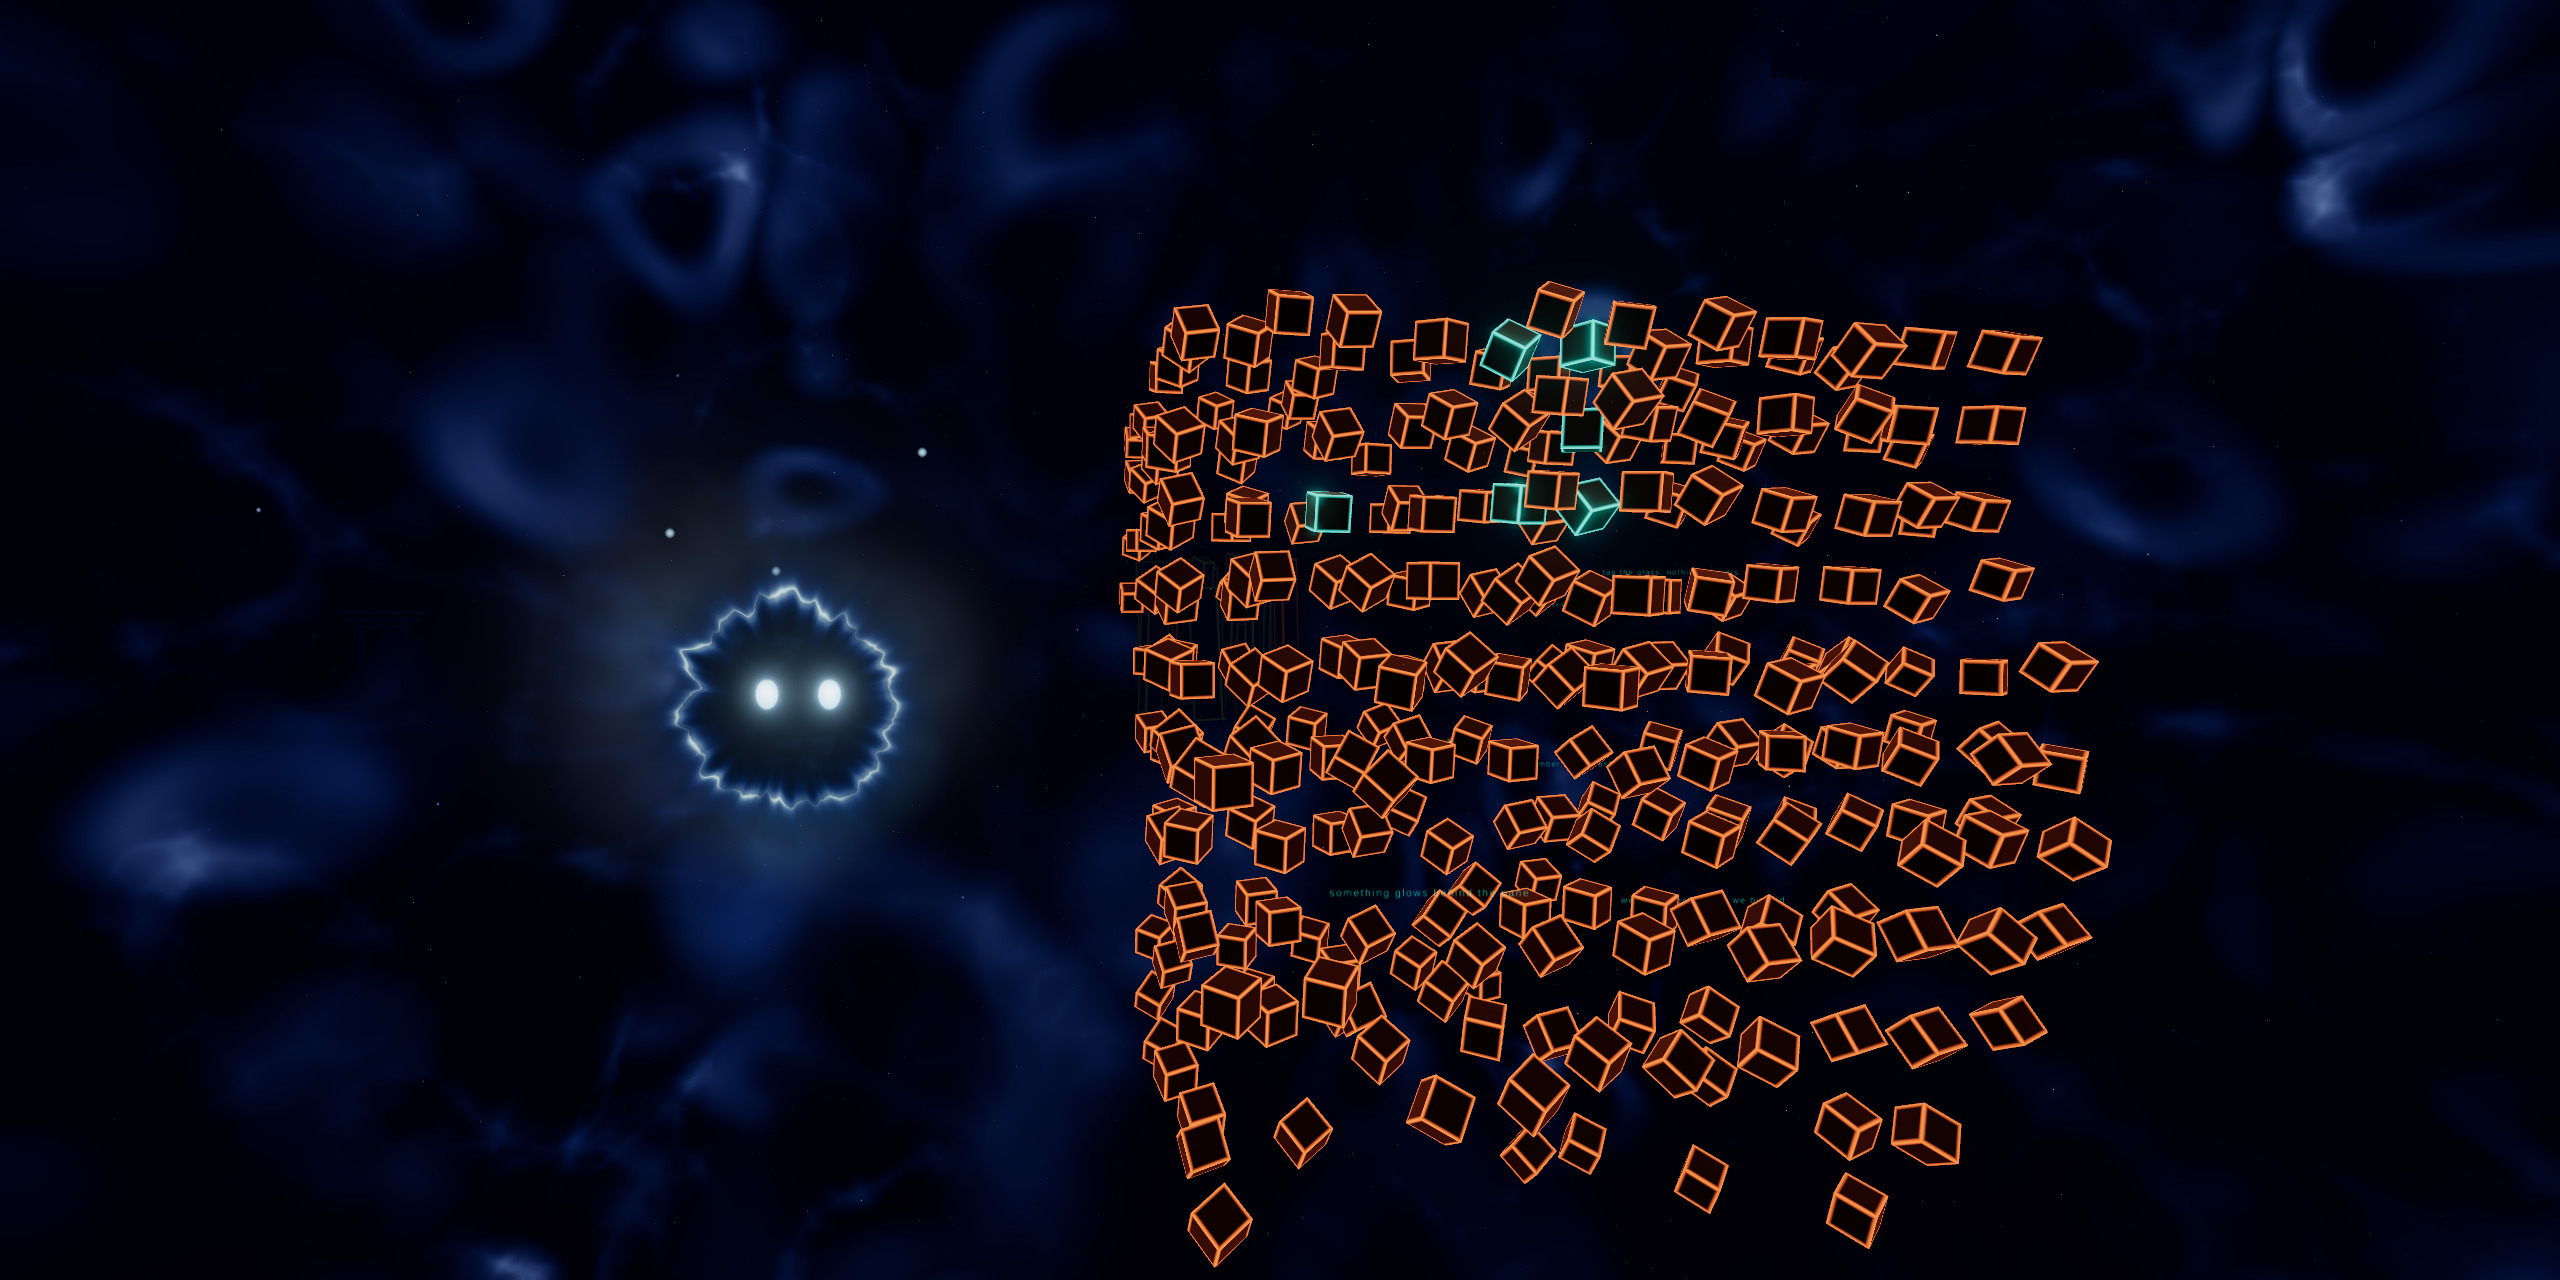
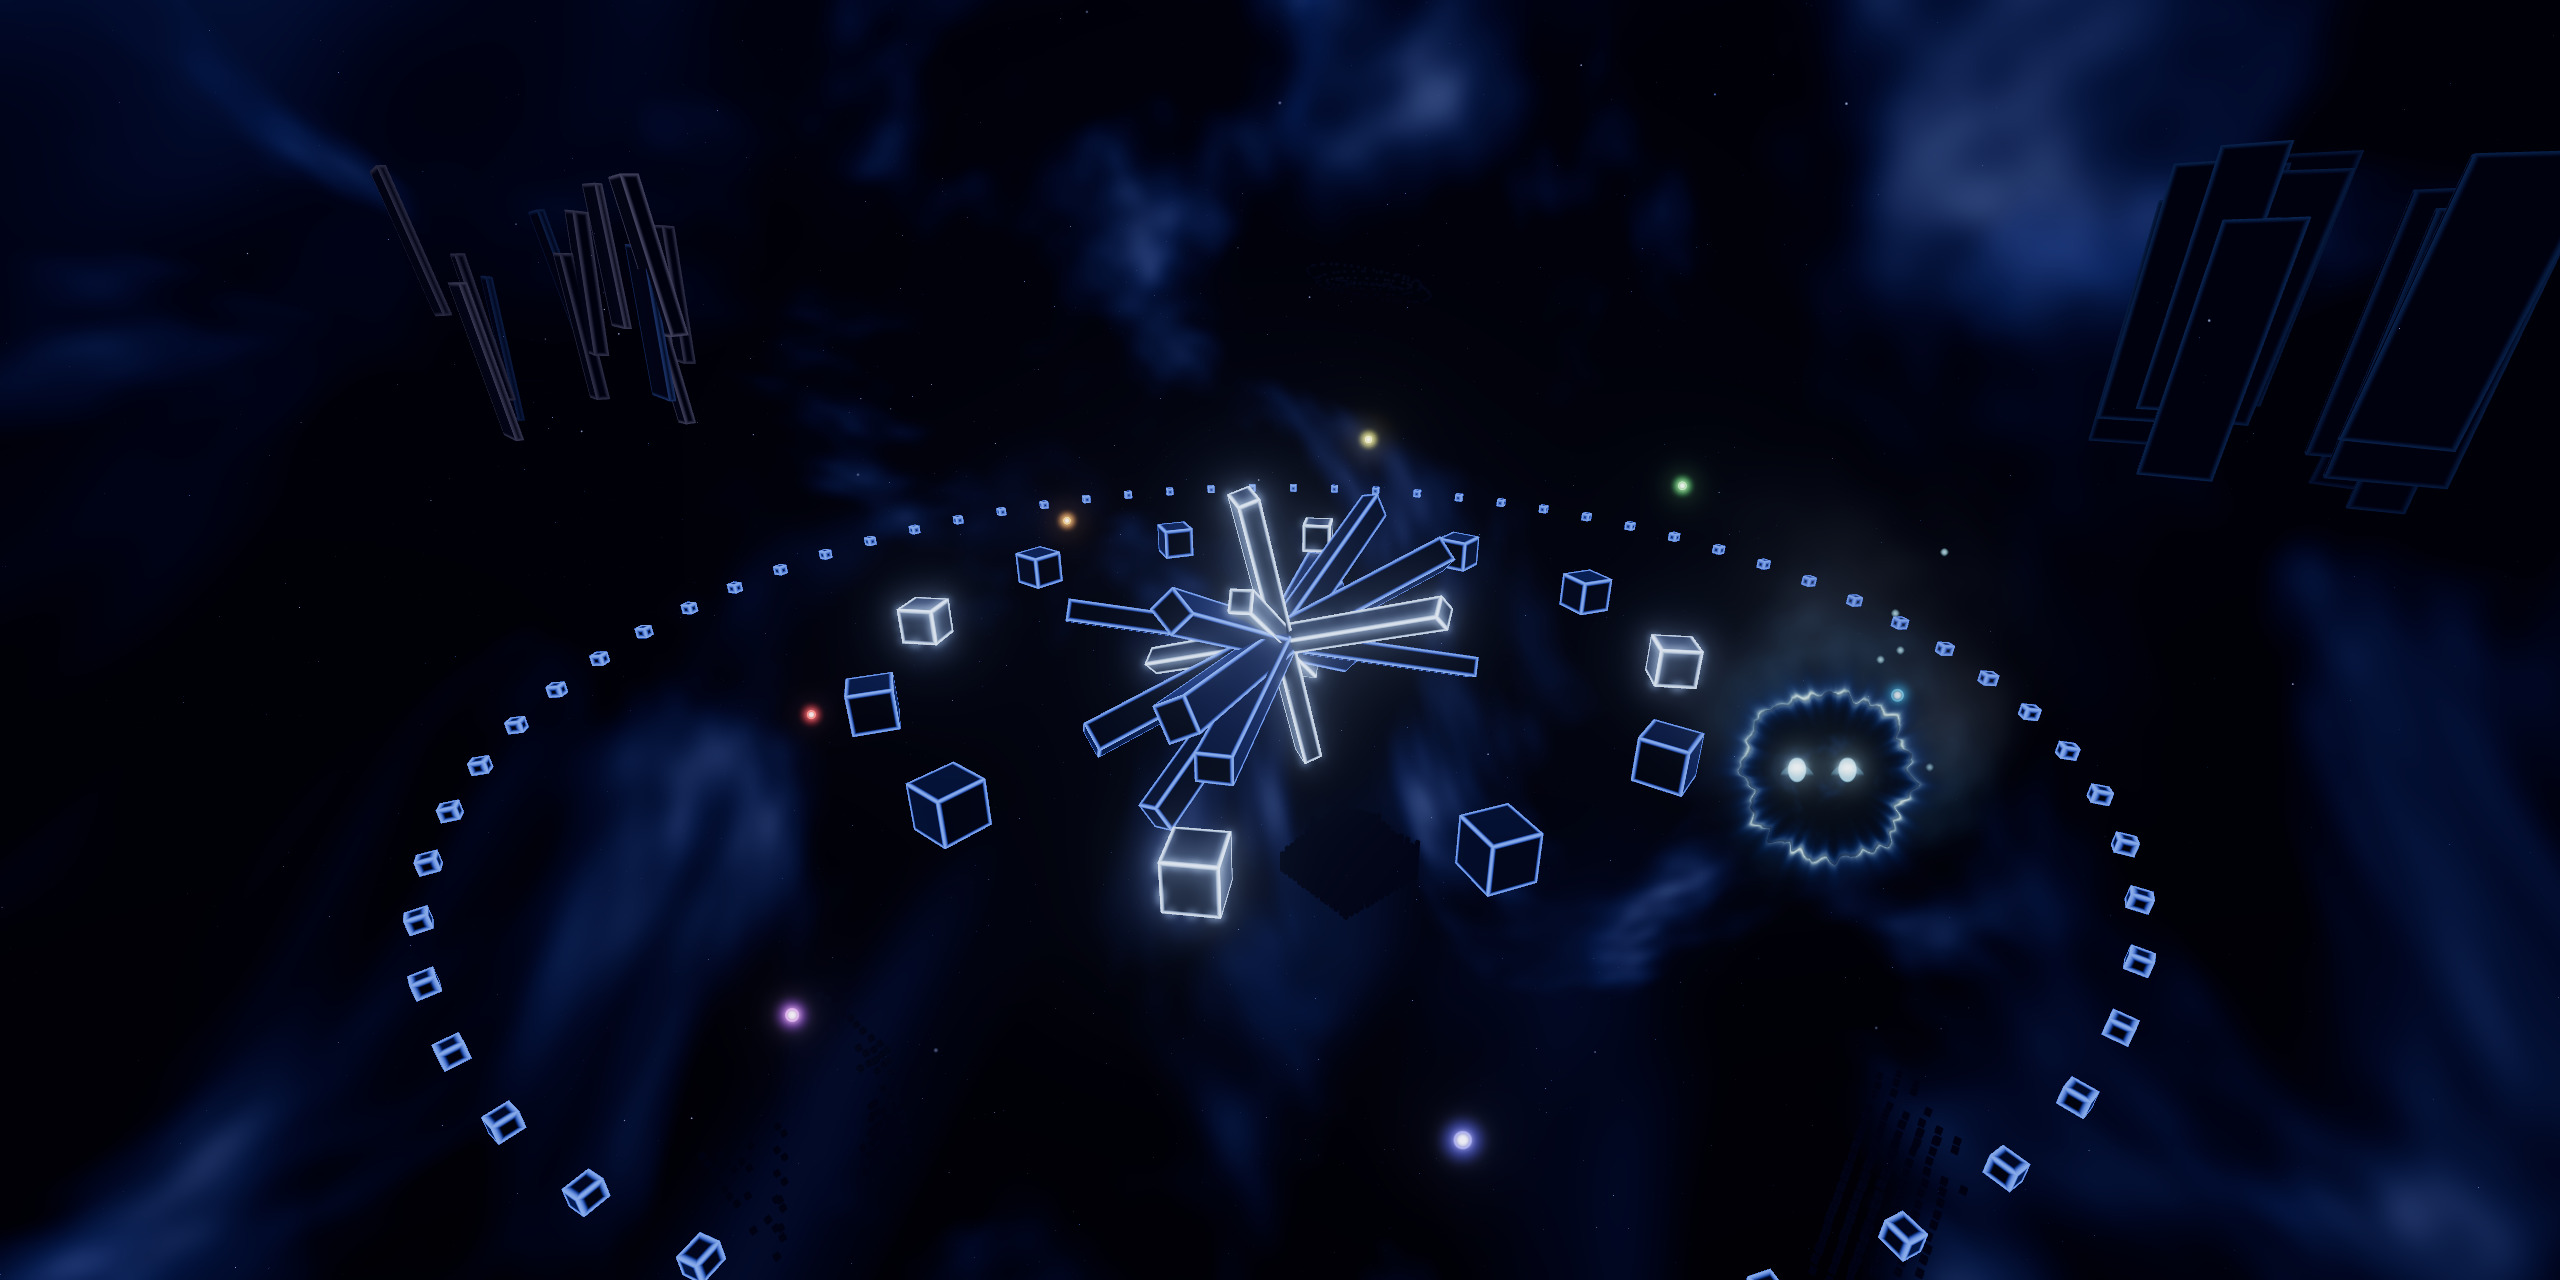
The README's look at the void: the origin, plain, with Irrlicht
The hub's clock in its ring of cubes as you first see it, no portals round
it, and Irrlicht beside it looking on. The social preview is the same.

diff --git a/README.md b/README.md
@@ -1,6 +1,6 @@
 # cvoid
 
-![Irrlicht, the cold flame that keeps by you, beside a reef of orange cubes in Kiln Reef, a sector Claude dreamt](docs/cvoid.jpg)
+![The origin of cvoid: the hub's clock in its ring of cubes, and Irrlicht, the cold flame that keeps by you](docs/cvoid.jpg)
 
 Fly through an endless generative void in the browser, after the PlayStation 2 system menu:
 fog, drifting motes, glass orbs, towers of cubes. Space is a grid of sectors, and each unseen
